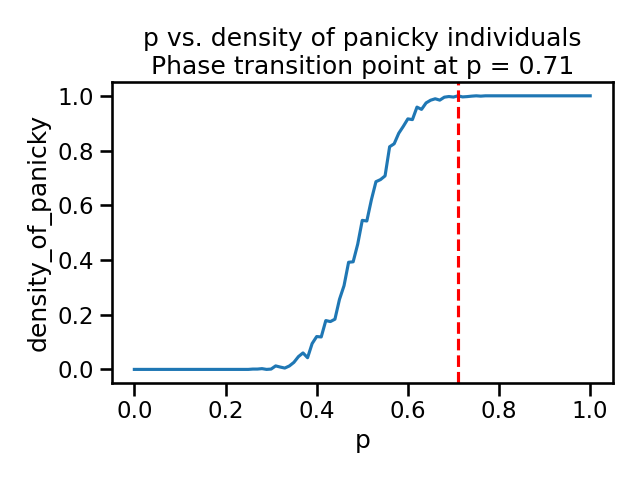
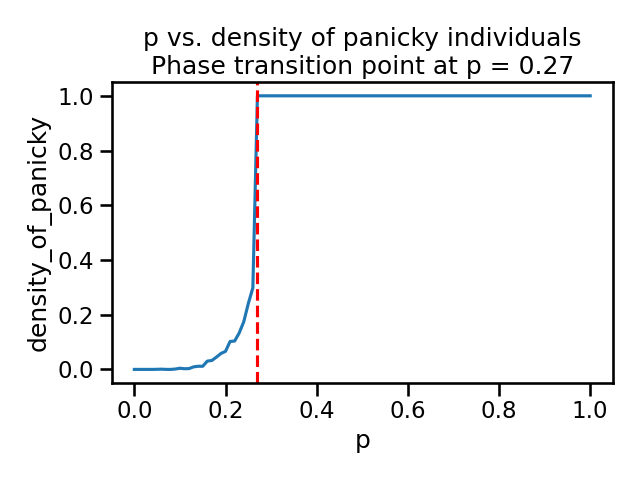
Modify Q11.5 to be panicky model instead of Majority Vote

diff --git a/homeworks/HW2/scripts/Q11.5/Panicky.py b/homeworks/HW2/scripts/Q11.5/Panicky.py
@@ -49,7 +49,7 @@ class Panicky_Agent(object):
                         for dy in [-r, 0, r]:
                             if self.config[(x + dx) % n, (y + dy) % n] == s:
                                 count[s] += 1
-                self.nextconfig[x, y] = argmax(count)
+                self.nextconfig[x, y] = 1 if count[1] >= 4 else 0
         self.config, self.nextconfig = self.nextconfig, self.config
 
 
